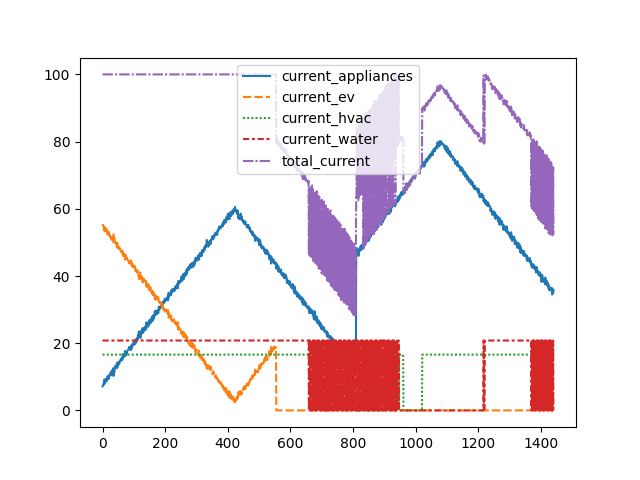
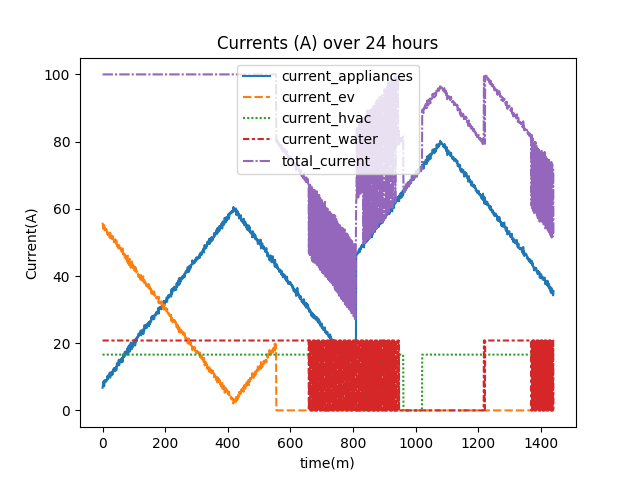
ok

diff --git a/simulation/sim.py b/simulation/sim.py
@@ -213,8 +213,9 @@ if __name__ == '__main__':
     # DO NOT CHANGE TIME STEP!
     df = simulation(time_step=1, charge=0, house_temp = 16, water_temp = 49, current_hvac = 16.6, current_water=20.8, house_size=555.24, tank_size=200)
     print(df)
+    df["hours"] = df["time"]/60
     
-    plot = sns.lineplot(data=df[["water_temp", "house_temp", "outside_temp", "comfort_temp"]]) 
+    plot = sns.lineplot(data=df[["water_temp", "house_temp", "outside_temp", "comfort_temp","hours"]]) 
     # TODO: charge EV has to be put into a separate plot because the values are too large
     # TODO: plot for the currents that doesn't look awful
     plot.set(xlabel="time(m)", ylabel="temperature(C)", title="House and Water Temp (C) over 24 hours")
@@ -224,5 +225,6 @@ if __name__ == '__main__':
     df.to_csv("problem.csv")
     df["total_current"] = df["current_appliances"] + df["current_hvac"] + df["current_ev"] + df["current_water"]
     plot2 = sns.lineplot(data = df[["current_appliances", "current_ev", "current_hvac", "current_water","total_current"]])
+    plot2.set(xlabel="time(m)", ylabel="Current(A)", title="Currents (A) over 24 hours")
     fig2 = plot2.get_figure()
     fig2.savefig("charge.png")
